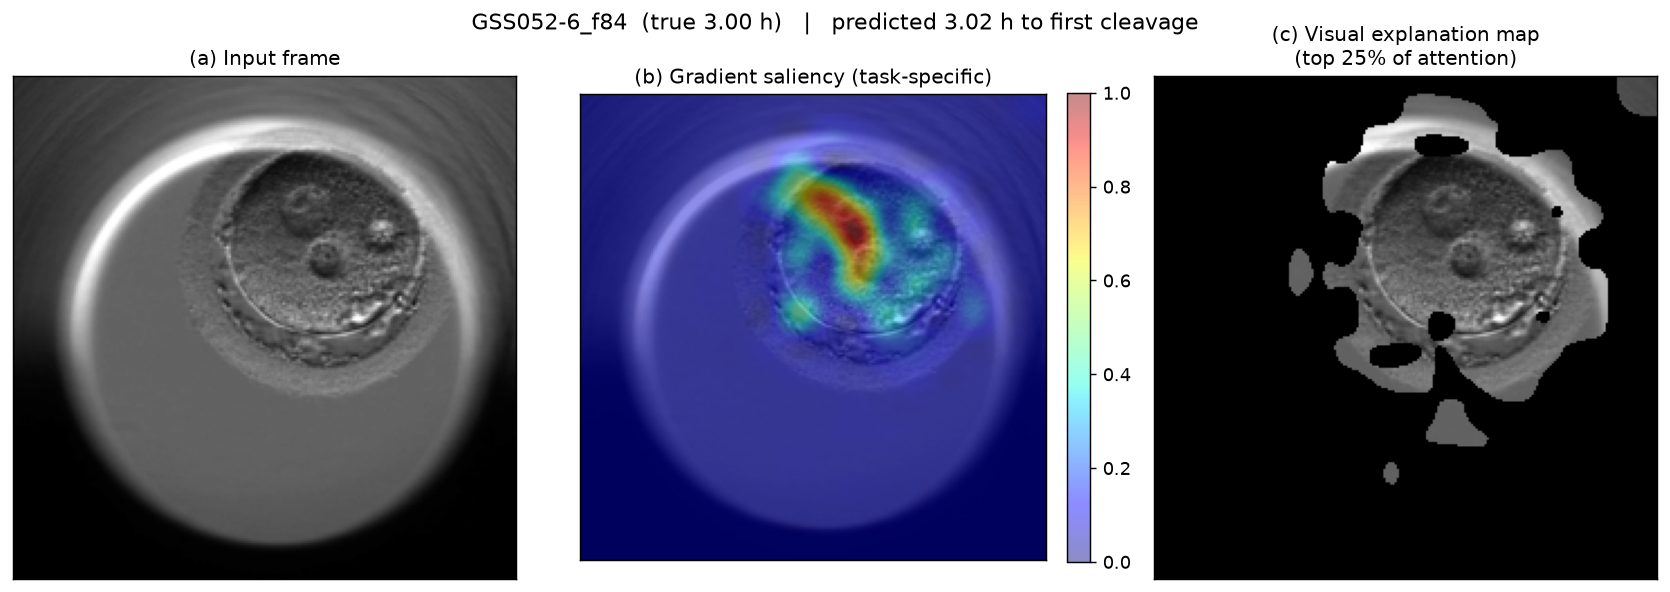
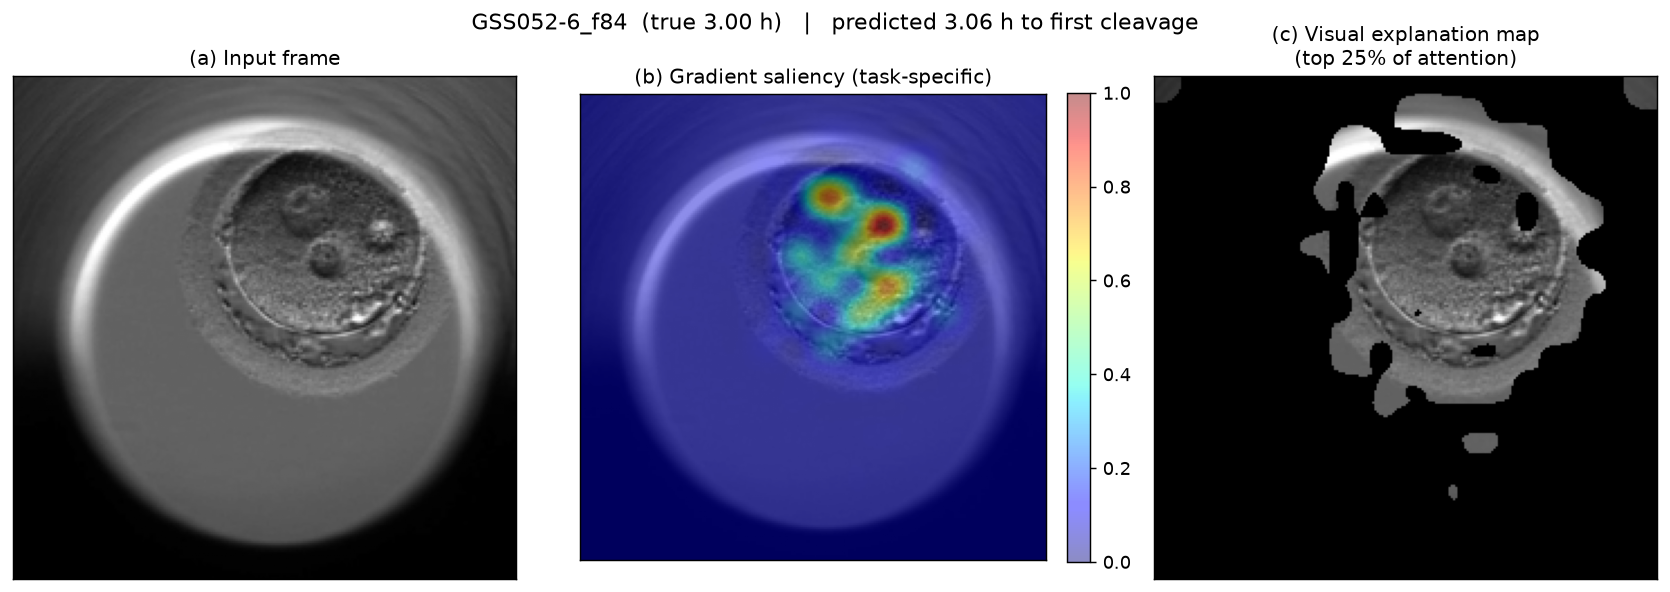
Refit the head at sigma 0.25: near-division band 0.99 h -> 0.67 h
Per-band accuracy of what shipped an hour ago showed the 0-1 h band
scoring WORSE than the 1-2 h band, which is backwards -- the closer to
division, the more visible it should be. On the 2,227 frames truly under
an hour out the model predicted a mean of 1.58 h against a true 0.59 h,
a +0.99 h bias, and never predicted below 0.81 h at all. It called
imminent divisions late, in the regime a clinic cares most about.

The cause is mechanical: the soft target is a Gaussian truncated at 0,
so a wide sigma pushes mass upward exactly where the answer is smallest.

  sigma   overall   0-1 h   1-2 h   2-4 h  24-42 h  bias<1h  min pred
  0.25     1.281   0.669   0.594   0.841    1.698    +0.63      0.35
  1.0      1.295   0.990   0.606   0.835    1.673    +0.99      0.80

A 32% cut in the 0-1 h band -- more than 10x the 0.03 h noise floor --
at no overall cost (1.281 vs 1.290 at 3 seeds; slope 0.946 -> 0.954).

Sigma had been swept globally and 0.25/0.5/1.0 declared tied inside the
noise floor. That was true and it hid this: the average ran over six
bands where the difference is zero.

Verified: parity vs fp32 max |dP| 1.92e-04 (the fuse-then-fp16 candidate
failed at 4.27e-03 and was rejected); the shipped graph agrees with the
bundle's own PyTorch pipeline to 0.0033 h on ten real corpus frames; all
three R2 ETags match their local MD5s. Parts 1 and 2 are byte-identical
to the previous upload -- same trunk, only the head refit.

CACHE_NAME -> v3.
[…]

diff --git a/app/components/ExplanationGallery.tsx b/app/components/ExplanationGallery.tsx
@@ -13,28 +13,33 @@ import { useState } from "react";
  * rendered offline by `training/attention_map.py` on real corpus frames.
  *
  * WHY NOT SHOW THE BACKBONE'S ATTENTION INSTEAD, WHICH IS FREE
- * Because it would be a lie. Raw CLS-to-patch attention falls out of the forward pass at
- * no cost and makes a pretty picture, but measured against occlusion — masking a region
- * and watching how far the prediction actually moves — it scored a rank correlation of
- * 0.00 on this model. It shows what DINOv2 attends to, not what our prediction depends
- * on. The gradient map scored 0.38 against the same yardstick. Only the second one is
- * shown, and the number is quoted rather than hidden.
+ * Raw CLS-to-patch attention falls out of the forward pass at no cost and makes a pretty
+ * picture, but measured against occlusion — masking a region and watching how far the
+ * prediction actually moves — it reaches only 0.19 on the deployed trunk, against 0.46
+ * for the gradient map. It largely shows what DINOv2 attends to, not what our prediction
+ * depends on. Only the gradient map is shown, and both numbers are quoted rather than
+ * hidden.
+ *
+ * These figures are rendered with `--bundle`, i.e. with the DEPLOYED 3-seed ensemble, not
+ * with a head refit for the occasion. Without that flag attention_map.py fits its own
+ * single head and the captions differ from the shipped model by up to 0.36 h — a caption
+ * reading "predicted 11.35 h" for a model that does not produce it.
  */
 
-// Rendered from trunk `ssl_vitl_96k`. Regenerate with scripts/sync_explain.py.
+// Rendered from trunk `ssl_vitl_96k (deployed bundle, sigma 0.25)`. Regenerate with scripts/sync_explain.py.
 type Item = { file: string; embryo: string; trueH: number; predH: number };
 
 const ITEMS: Item[] = [
-  { file: "00_LK523-2_f66_gradient.png", embryo: "LK523-2", trueH: 0.1, predH: 1.18 },
-  { file: "01_GSS052-6_f84_gradient.png", embryo: "GSS052-6", trueH: 3.0, predH: 3.02 },
-  { file: "02_HE444-4_f67_gradient.png", embryo: "HE444-4", trueH: 5.8, predH: 5.99 },
-  { file: "03_LK584-2_f96_gradient.png", embryo: "LK584-2", trueH: 8.8, predH: 8.85 },
-  { file: "04_LL854-1_f53_gradient.png", embryo: "LL854-1", trueH: 11.7, predH: 11.35 },
-  { file: "05_LC161-2-5_f44_gradient.png", embryo: "LC161-2-5", trueH: 14.6, predH: 14.44 },
-  { file: "06_VF269-7_f34_gradient.png", embryo: "VF269-7", trueH: 17.6, predH: 17.69 },
-  { file: "07_RI273-6_f6_gradient.png", embryo: "RI273-6", trueH: 20.6, predH: 21.03 },
-  { file: "08_GSS052-2_f5_gradient.png", embryo: "GSS052-2", trueH: 23.9, predH: 23.98 },
-  { file: "09_RM855-3_f1_gradient.png", embryo: "RM855-3", trueH: 41.5, predH: 40.21 },
+  { file: "00_LK523-2_f66_gradient.png", embryo: "LK523-2", trueH: 0.1, predH: 0.69 },
+  { file: "01_GSS052-6_f84_gradient.png", embryo: "GSS052-6", trueH: 3.0, predH: 3.06 },
+  { file: "02_HE444-4_f67_gradient.png", embryo: "HE444-4", trueH: 5.8, predH: 6.02 },
+  { file: "03_LK584-2_f96_gradient.png", embryo: "LK584-2", trueH: 8.8, predH: 8.82 },
+  { file: "04_LL854-1_f53_gradient.png", embryo: "LL854-1", trueH: 11.7, predH: 11.54 },
+  { file: "05_LC161-2-5_f44_gradient.png", embryo: "LC161-2-5", trueH: 14.6, predH: 14.54 },
+  { file: "06_VF269-7_f34_gradient.png", embryo: "VF269-7", trueH: 17.6, predH: 17.48 },
+  { file: "07_RI273-6_f6_gradient.png", embryo: "RI273-6", trueH: 20.6, predH: 20.96 },
+  { file: "08_GSS052-2_f5_gradient.png", embryo: "GSS052-2", trueH: 23.9, predH: 23.85 },
+  { file: "09_RM855-3_f1_gradient.png", embryo: "RM855-3", trueH: 41.5, predH: 38.45 },
 ];
 
 export default function ExplanationGallery() {
@@ -68,10 +73,12 @@ export default function ExplanationGallery() {
         predicted time, and the same frame with everything outside the top quarter of that
         map removed. On most frames the hot region sits on the zygote, usually on the
         pronuclei, and not on the dish or the well wall. The 41.5 h frame is the honest
-        exception — there the map also lights up an air bubble sitting outside the embryo.
-        It is the furthest-from-division example in the entire corpus, the regime where
-        the zygote itself carries least information, and it is shown rather than quietly
-        dropped: a gallery of only the clean cases would be evidence of nothing.
+        exception — there an air bubble outside the embryo also lights up: not the map&rsquo;s
+        hottest region, which stays on the zygote, but bright enough to survive into the
+        top quarter. It is the furthest-from-division example in the entire corpus, the
+        regime where the zygote itself carries least information, and it is shown rather
+        than quietly dropped: a gallery of only the clean cases would be evidence of
+        nothing.
       </p>
 
       <div

diff --git a/app/lib/infer.ts b/app/lib/infer.ts
@@ -1,19 +1,21 @@
 /**
  * Inference runs IN THE BROWSER.
  *
- * The published model is a frozen DINOv2 ViT-L/14 trunk carrying temporal
- * self-supervision, its features averaged over the eight square symmetries
- * (TTA-8), read by a 3-seed ensemble of small distributional heads. All of that
- * lives inside the exported graph, so the browser makes ONE session.run() call
- * and cannot drift out of step with the evaluated recipe.
+ * The published model is a frozen DINOv2 ViT-L/14 trunk WITH 4 REGISTER TOKENS, carrying
+ * temporal self-supervision, read by a 3-seed ensemble of small distributional heads.
+ * ONE view, no TTA -- TTA-8 measured -0.001 h on this trunk, so it would cost eight trunk
+ * passes per prediction for nothing. All of that lives inside the exported graph, so the
+ * browser makes ONE session.run() call and cannot drift out of step with the evaluated
+ * recipe.
  *
  * Running it client-side keeps the site static and push-to-deploy, and means
  * unpublished microscopy never leaves the machine it was opened on.
  *
  * THE MODEL IS 610 MB AND IS NOT IN THIS REPO. The trunk is 303 M parameters.
- * The graph is halved from 1219 MB by storing weights as fp16 while keeping every
- * computation in fp32 -- full fp16 drifts the decoded answer 0.376 h and int8
- * drifts 0.35 h while producing a larger file, so neither ships. 610 MB is still
+ * The graph is halved from 1217 MB by storing weights as fp16 while keeping every
+ * computation in fp32. Converting activations to fp16 as well was tried and REJECTED by
+ * the parity gate at max |dP| 4.08e-03 against a 2e-3 bar, and int8 drifts the decoded
+ * answer 0.35 h while producing a LARGER file, so neither ships. 610 MB is still
  * six times GitHub's blob limit, so the weights are hosted externally and pointed
  * at by
  * NEXT_PUBLIC_MODEL_URL (inlined at BUILD time -- changing it later needs a
@@ -64,19 +66,25 @@ export interface ModelMeta {
 }
 
 /** Used until a real model_meta.json is published alongside the weights. */
+// Every field here was the MOUSE project's: 48 bins over 0-18 h, a fitted quantile at
+// q=0.48, TTA-8, and the non-register trunk. If the meta fetch ever failed, the page would
+// describe -- and decode against -- a different project's model. These are this corpus's.
 export const FALLBACK_META: ModelMeta = {
   rMin: 0,
-  rMax: 18,
-  nBins: 48,
+  rMax: 42,
+  nBins: 64,
   imageSize: 224,
-  backbone: "vit_large_patch14_dinov2.lvd142m",
-  recipe: "frozen DINOv2 ViT-L/14 + temporal SSL, TTA-8, 3-seed head",
-  readout: "quantile",
-  q: 0.48,
-  sigmaHours: 1.0,
-  ttaViews: 8,
+  backbone: "vit_large_patch14_reg4_dinov2.lvd142m",
+  recipe:
+    "frozen DINOv2 ViT-L/14 with 4 register tokens, temporally self-supervised on the " +
+    "pre-cleavage window; 3-seed 256x2 distributional head, no TTA",
+  readout: "mean",
+  sigmaHours: 0.25,
+  ttaViews: 1,
   viewsInGraph: true,
-  unit: "hours; measured per-embryo frame interval",
+  unit:
+    "hours until first cleavage; from the corpus' own per-frame clock (Gomez " +
+    "timeElapsed), no assumed frame interval",
 };
 
 export type InferenceSource = "onnx" | "demo";
@@ -145,9 +153,14 @@ const META_URL = "/models/model_meta.json";
  * model's numbers. Changing the bucket name is what forces the refetch.
  *
  * v2 (2026-09-03): ssl_vitl_96k champion, 1.290 h per-embryo, replacing the 2.439 h
- * export of 2026-08-25.
+ *                  export of 2026-08-25.
+ * v3 (2026-09-03): same trunk, head refit at sigma 0.25 instead of 1.0. Overall 1.281 h,
+ *                  but the point is the near-division band: 0-1 h MAE 0.990 -> 0.669, and
+ *                  the bias on frames under an hour from division 0.99 -> 0.63 h. The
+ *                  soft target is a Gaussian truncated at zero, so a wide sigma pushes
+ *                  mass upward exactly where the answer is smallest.
  */
-const CACHE_NAME = "tempusvitae-model-v2";
+const CACHE_NAME = "tempusvitae-model-v3";
 
 export interface LoadProgress {
   /** Bytes received so far. */
